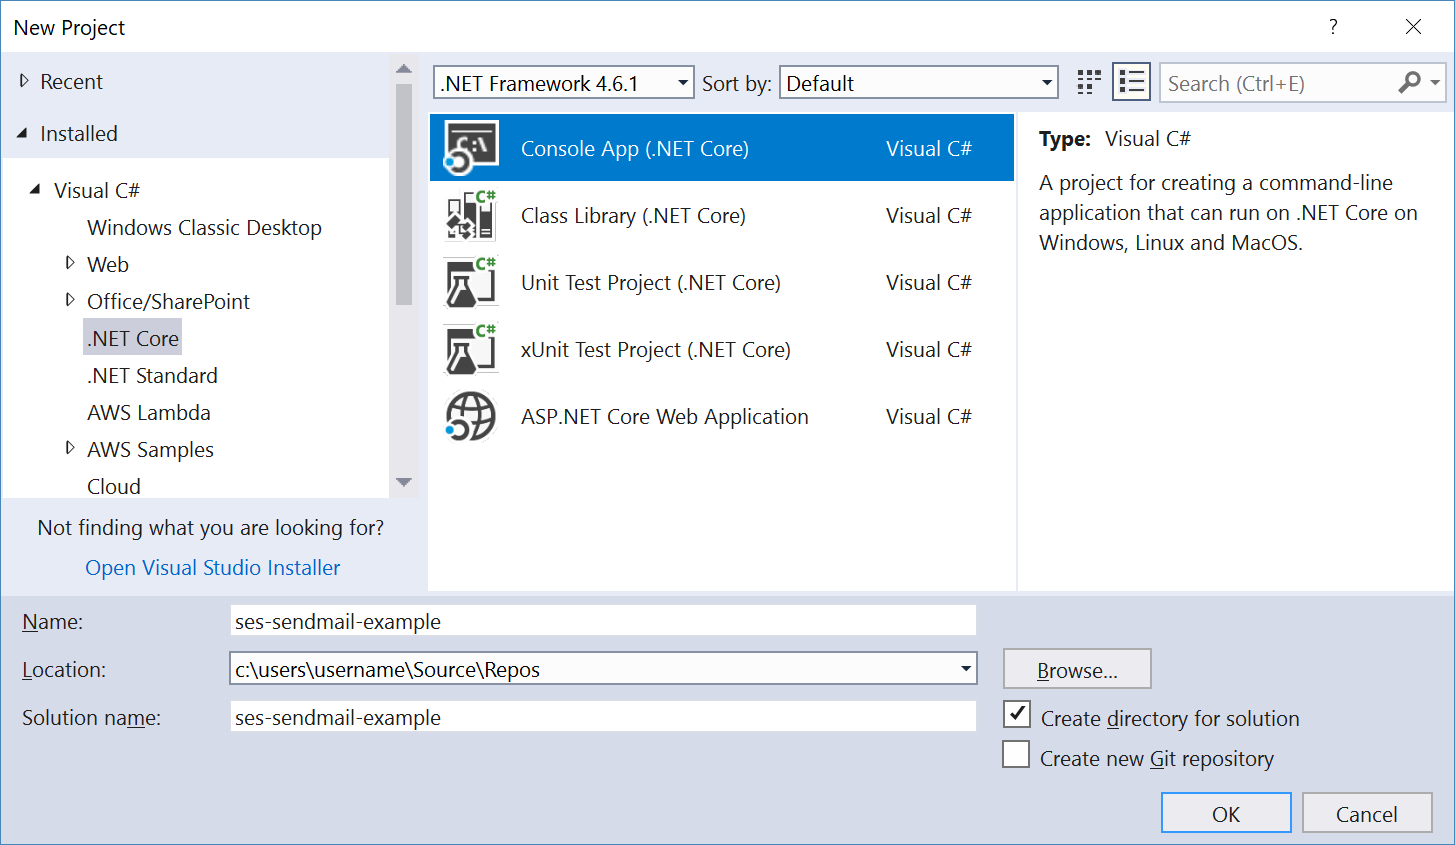
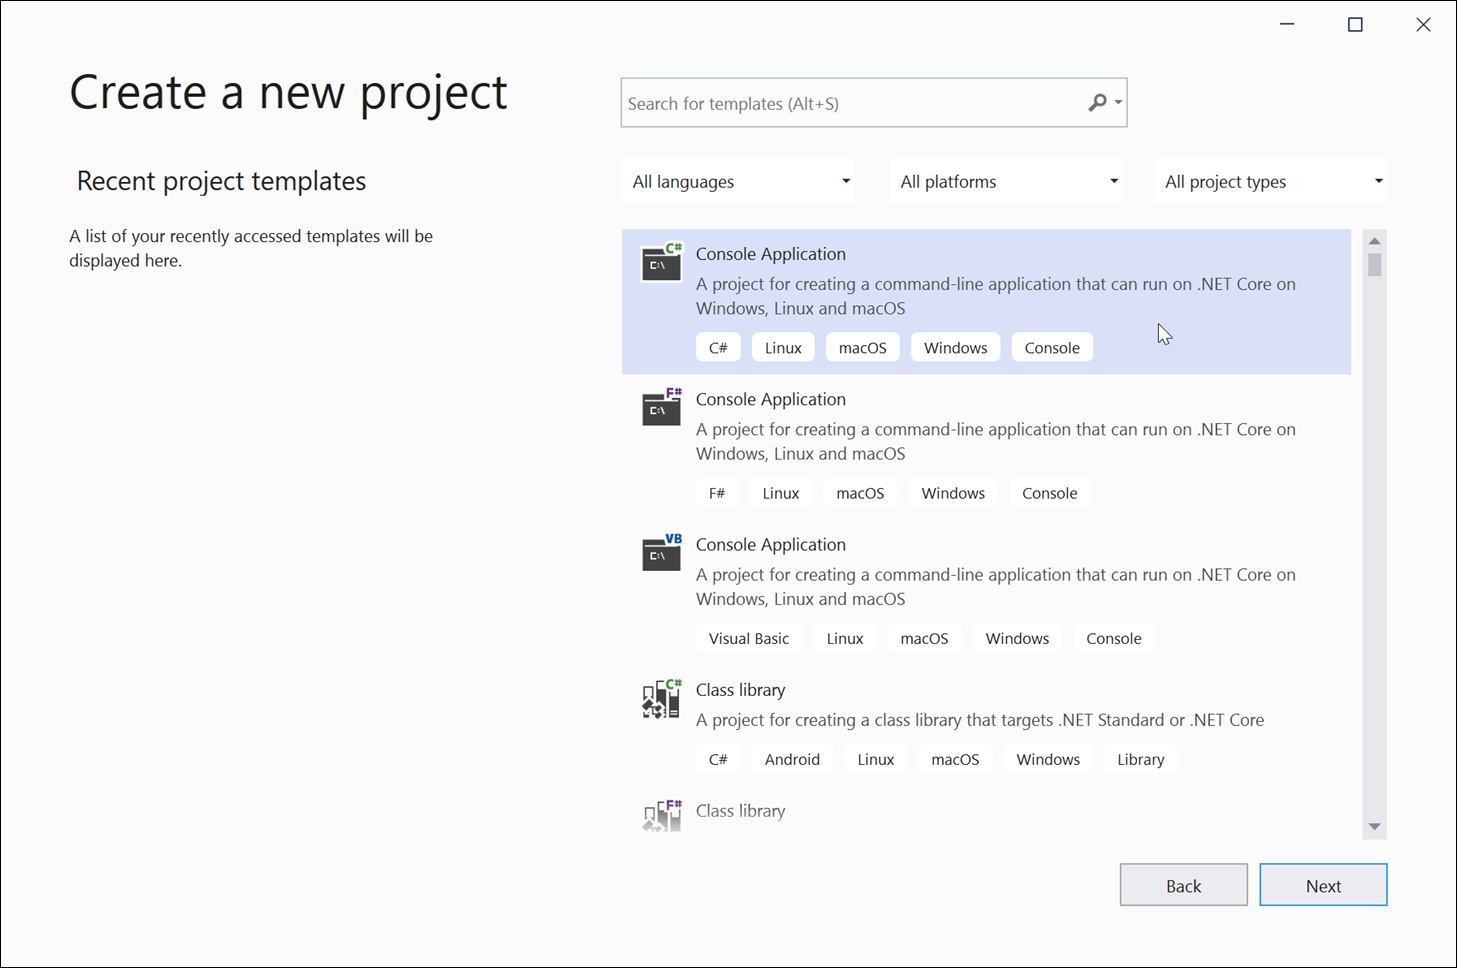
Updated sample

diff --git a/Communications/SES-SendMail-Example/SampleApplication/Program.cs b/Communications/SES-SendMail-Example/SampleApplication/Program.cs
@@ -9,6 +9,22 @@ namespace ses_sendmail_example
         static void Main(string[] args)
         {
             Console.WriteLine("Sending Email...");
+
+            /* The code in this sample assumes you have a credential profile names 'default',
+             * which the SDK will use unless overridden.
+             * To use credentials from a different profile, uncomment the code below
+             * and change the instantiation of the AmazonSimpleEmailService client as shown.
+            */
+
+            // code to use a specific credential profile
+            // var chain = new Amazon.Runtime.CredentialManagement.CredentialProfileStoreChain();
+            // Amazon.Runtime.AWSCredentials awsCredentials;
+            // if (!chain.TryGetAWSCredentials("steve-demo", out awsCredentials))
+            // {
+            //     throw new Exception("Unable to load credentials from the specified profile");
+            // }
+            // using (var client = new AmazonSimpleEmailServiceClient(awsCredentials, Amazon.RegionEndpoint.USEast1))
+
             using (var client = new AmazonSimpleEmailServiceClient(Amazon.RegionEndpoint.USEast1))
             {
                 var sendRequest = new SendEmailRequest

diff --git a/Communications/SES-SendMail-Example/Readme.md b/Communications/SES-SendMail-Example/Readme.md
@@ -1,84 +1,86 @@
-# Sending Emails with Amazon Simple Email Service (SES) and .NET
+# Sending Emails with Amazon Simple Email Service (Amazon SES) and .NET
 
 ## Overview
 
-This guide walks through how to send email from an application using Amazon Simple Email Service (SES). The walk-through includes verifying the sender email address in the AWS console, creating and configuring a simple .NET Core console application in either Visual Studio or via the command line, and then running the app to actually send the email. The code could easily be run in a Lambda function or anywhere else .NET code (Framework or Core) can run.
+This guide walks through how to send email from an application using Amazon Simple Email Service (Amazon SES). The walk-through includes verifying the sender email address in the AWS console, creating and configuring a simple .NET console application using either Visual Studio or 'dotnet' command line tool, and then running the app to actually send the email. The code could easily be run in an AWS Lambda function (.NET Core 3.1/.NET 5+), or anywhere else .NET code (.NET Framework/.NET Core/.NET 5+) can run.
 
 * Links to documentation
-  * [SES Service Page](https://aws.amazon.com/ses/)
-  * [SES Documentation](https://docs.aws.amazon.com/ses/latest/DeveloperGuide/)
+  * [Amazon SES Service Page](https://aws.amazon.com/ses/)
+  * [Amazon SES Developer Guide](https://docs.aws.amazon.com/ses/latest/DeveloperGuide/)
 
 ## Introduction
 
-The Amazon Simple Email Service (SES) is an email platform that provides an easy and cost-effective way to send and receive email without managing mail servers or other infrastructure. It's integrated with the AWS SDKs, so programmatically sending emails from your .NET applications is fast and easy. You can send email with SES using either the APIs, or SMTP.
+Amazon SES is an email platform that provides an easy and cost-effective way to send and receive email without managing mail servers or other infrastructure. A [NuGet package](https://www.nuget.org/packages/AWSSDK.SimpleEmail/) for the AWS SDK for .NET enables you to to programmatically send emails from your .NET application code.
 
-For this walk-through, we'll use the AWS Management Console to do the one-time verification of the email address we'll use to send mail from. Next, we'll create a new .NET console application (you can use either the .NET Framework or .NET Core) and add the AWS SDK for SES to it. Finally, we'll send some email using our app!
+In this walk-through, you will use the AWS Management Console to do the one-time verification of the email address you'll use to send mail from. Next, you'll create a new .NET console application. You may use any .NET version that supports [.NET Standard 2.0 or higher](https://docs.microsoft.com/en-us/dotnet/standard/net-standard). This includes.NET Framework 4.6 and higher, .NET Core 2 and higher, or .NET 5 and higher. The sample code provided with this guide uses .NET 5. Then you'll add the AWS SDK for .NET [NuGet package for SES](https://www.nuget.org/packages/AWSSDK.SimpleEmail/) to the project, update the application code to call Amazon SES, and run the application to send an email.
 
 ### Prerequisites
 
-* .NET Framework 3.5 or higher, **or** .NET Core 1.0 or higher installed
+* A version of .NET supporting .NET Standard 2.0 or higher
 
 * AWS Account with credentials configured locally in Visual Studio, or using the AWS Tools for PowerShell or the AWS CLI
 
-* Optional: Visual Studio 2017 or Visual Studio Code, or your preferred editor. You can also use the command line for .NET Core.
+* Optional: Visual Studio 2017 or higher, or Visual Studio Code, JetBrains Rider, or your preferred editor. You can also use the dotnet command line tool for .NET Core/.NET 5+.
 
-## Verify an Email Address in SES
+## Verifying Email Addresses in Amazon SES
 
-Amazon SES requires you to verify either the email addresses or the entire domain that you use to send email from, or that you use in the return address. For this walk-through, we'll just confirm a single email address.
+Amazon SES requires you to verify either the email addresses or the entire domain that you use to send email from, or that you use in the return address. For this walk-through, you'll just confirm a single email address.
 
-> *Note: Email addresses are case-sensitive. If you verify
-> <sender@EXAMPLE.com>, you can't send from <sender@example.com> without
-> also verifying that address.*
+> *Note:* Email addresses are case-sensitive. If you verify <sender@EXAMPLE.com>, you can't send from <sender@example.com> without also verifying that address.
 
-**Step 1: Select a Region**
+Also, if your account is still in the Amazon SES sandbox, you will need to verify any email addresses that you send emails to, except for email addresses provided by the [Amazon SES mailbox simulator](https://docs.aws.amazon.com/ses/latest/DeveloperGuide/send-email-simulator.html).
 
-Amazon SES is a regional service. Log into the AWS Management Console, and using the region-selector at the top-right, select the region you want to verify your email address in.
+## Step 1: Log in, and Select an AWS Region in the AWS Management Console
 
-**Step 2: Verify an Email Address**
+Amazon SES is a regional service. Log into the AWS Management Console, and using the region-selector at the top-right, select the region you want to verify your email address in. This guide, and the provided sample code, assumes you are using the US East (N. Virginia) region.
 
-1. Go to SES dashboard. In the navigation pane, under **Identity
-    Management**, select **Email Addresses**.
+## Step 2: Verify an Email Address
 
-1. Choose **Verify a New Email Address**.
+1. Navigate to the Amazon SES dashboard in the management console.
 
-1. In the **Verify a New Email Address** dialog box, type your email address in the **Email Address** field, and then choose **Verify This Email Address**.
+1. In the navigation pane, under **Identity Management**, select **Email Addresses**.
 
-    a.  Note: If your SES service has only "sandbox" access, you have to verify both sending and receiving email addresses for the email delivery to be successful.
+1. Click **Verify a New Email Address**.
+
+1. In the **Verify a New Email Address** dialog box, type your email address in the **Email Address** field, and then click **Verify This Email Address**.
+
+    > **Note:** If your SES service has only "sandbox" access, you have to verify both sending and receiving email addresses for the email delivery to be successful, or run the application code using an address from the SES simulator.
 
 1. You should receive an email with the subject line, "Amazon Web Services -- Email Address Verification Request in region *\<RegionName\>*." Click the link in the body of the message.
 
-1. Back in the AWS SES console, verify that your email status is "verified". Click the refresh icon at the top-right of the email list if necessary. See Figure 1 below.
+1. Back in the Amazon SES console, verify that your email status is "verified". Click the refresh icon at the top-right of the email list if necessary. See Figure 1 below.
 
-![SES Console](media/image1.png)
+    ![SES Console](media/image1.png)
 
-Figure 1 -- Verified Email Address in SES Console
+    Figure 1. Verified Email Address
 
-> *Note: If you don't see the email verification email in your inbox,
-> follow the [troubleshooting steps in the SES Developer
-> Guide](https://docs.aws.amazon.com/ses/latest/DeveloperGuide/verify-email-addresses-procedure.html#verify-email-addresses-troubleshooting).*
+> **Note:**: If you do not see the email verification email in your inbox, follow the [troubleshooting steps in the Amazon SES Developer Guide](https://docs.aws.amazon.com/ses/latest/DeveloperGuide/verify-email-addresses-procedure.html#verify-email-addresses-troubleshooting).
 
-## Create and Configure a Console Application
+## Step 3: Create a New Console Application Project
 
-**Step 1: Create an empty console application project**
+You can create, build, and run the application using either Visual Studio or from the command line. Instructions for the command line assume you are using .NET Core or .NET 5+. Follow the steps under the relevant heading below. Alternatively you can use the prewritten code contained in the SampleApplication folder of this guide. Note that the provided code assumes use of .NET 5 and the US East (N. Virginia) region.
 
-You can create, build and run the application using either Visual Studio (.NET Framework or .NET Core), or from the command line (.NET Core only). Follow the steps under the relevant heading below. Alternatively you can use the provided sample in the SampleApplication folder of this guide. Note that the provided sample assumes use of the US East (N. Virginia) region.
+The complete application can be found in the SampleApplication folder for this guide, and you can use this if you wish (skip to step 5 to make changes to the provided code and then run it). Alternately, follow the steps below to create and update a new application project. Follow the steps appropriate to your chosen environment below.
 
-**Visual Studio:**
+### Create Project Using Visual Studio
 
-1. Select File New Project from the main menu.
+1. Select **New Project** from the **File** menu.
 
-1. In the New Project dialog, select Console App (.NET Framework) **or** Console App (.NET Core).\
-    *Note that in Figure 2 below, we have chosen .NET Core.*
+1. In the _New Project_ dialog, select the **Console App** project template and fill out the project settings appropriately (name, location, and .NET version).\
+    \
+    **Note:** The screenshots below show the process for selecting a .NET 5.0 console application project in Visual Studio 2019. Your version may differ.
 
-1. Select a name for your project, and then click the "Ok" button.
+    ![New Project dialog](media/image2.png)
 
-![New Project dialog](media/image2.png)
+    ![Configure project settings 1](media/image3.png)
 
-Figure 2 -- New Console App in Visual Studio New Project Dialog
+    ![Choose .NET version](media/image4.png)
 
-**Command Line:**
+1. You can now skip to Step 4 below, _Add the Simlple Email Service_ NuGet Package.
 
-We'll create a new directory, and then create the console app project in it using the following commands in either a Windows command prompt or Mac OS X or Linux bash shell:
+### Create Project Using the 'dotnet' Command Line Tool
+
+Run the commands below in a command prompt on Windows, macOS, or Linux to create a new directory, and then create the console application project.
 
 ```bash
 mkdir ses-sample
@@ -88,33 +90,43 @@ dotnet new console
 
 The *dotnet new* command will create the project files, and restore packages referenced by the template.
 
-**Step 2: Add the SES NuGet Package**
+## Step 4: Add the Amazon SES NuGet Package**
 
-**Visual Studio:**
+Next you'll add the NuGet package from the AWS SDK for .NET that your application code can use to call Amazon SES APIs.
 
-1. Right-click the project node for your project in the Solution Explorer, and select, "Manage NuGet Packages..." from the context menu.
+You have a choice of using the NuGet Package Manager console in Visual Studio, or adding the package at the command line. Follow the steps appropriate to your chosen environment below.
 
-1. In the NuGet tab that appears, click "Browse" from the horizontal menu, and in the search box type "AWSSDK.SimpleEmail".
+### Add NuGet Package Using Visual Studio
 
-1. When the package appears in the list area, select it, and then click the "Install" button in the details pane (see Figure 3 below).
+1. Right-click the project node for your project in the Solution Explorer, and select **Manage NuGet Packages...** from the context menu.
 
-1. If prompted to accept the license agreement, click the "I Accept" button in the dialog.
+1. In the NuGet window that appears, click the **Browse** link  and in the search box enter **AWSSDK.SimpleEmail**.
 
-> ![NuGet Package](media/image3.png)
+    > **Tip:** There are two packages on NuGet for Amazon SES. For this walk-through, select the _AWSSDK.SimpleEmail_ package to match the provided example code.
 
-Figure 3 -- Adding the AWS SES NuGet Package in Visual Studio
+1. When the package appears in the list area, select it, and then click the **Install** button in the details pane, shown in Figure 3 below.
 
-**Command Line:**
+    > **Note:** If prompted to accept the license agreement, click the "I Accept" button in the dialog.
 
-Add the NuGet package *AWSSDK.SimpleEmail* to the project with the following command in either a Windows command prompt or Mac OS X or Linux bash shell:
+    ![NuGet Package](media/image5.png)
 
-```bash
-dotnet add package AWSSDK.SimpleEmail
-```
+    Figure 2. Adding the NuGet Package for Amazon SES in Visual Studio 2019
 
-**Step 3: Edit the C\# Code**
+1. You can now skip to Step 5 below, _Edit the C\# Code_.
 
-You can use the complete project contained in the SampleApplication folder for this guide and edit the *Program.cs* file, or copy and paste the code in Figure 4 below into the *Program.cs* file of your own project using either Visual Studio or a code editor of your choice.
+### Add NuGet Package Using the Command Line
+
+1. In your command line shell ensure you are located in the same folder as the project you just created.
+
+2. Run the command below to add the NuGet package *AWSSDK.SimpleEmail* to the project.
+
+    ```bash
+    dotnet add package AWSSDK.SimpleEmail
+    ```
+
+## Step 5: Edit the C\# Code
+
+If you are following the steps in this guide with a new project, copy and paste the code below to replace the contents of *Program.cs* in your new project using either Visual Studio or a code editor of your choice. If you are instead using the provided code in the SampleApplication folder, skip to _Ensure you make the following changes in the code_ below.
 
 ```csharp
 using System;
@@ -162,31 +174,31 @@ namespace ses_sendmail_example
 }
 ```
 
-Figure 4 -- Program.cs file
-
-This sample code demonstrates a common pattern when developing with the AWS SDK for .NET, which is the use of a client object to represent an AWS service. That client object then exposes functionality via methods, such as the `SendEmailAsync` method in this example.
+This sample code demonstrates a common pattern when developing with the AWS SDK for .NET, which is the use of a client object to represent an AWS service. That client object then exposes the service's APIs via methods on the client object, such as the `SendEmailAsync` method in this example.
 
 Ensure you make the following changes in the code:
 
-- Replace "*verified-email-address@example.com*" with the email address you verified earlier
+* Replace _verified-email-address@example.com_ with the email address you verified earlier
 
-- Replace "*dest@example.com*" with your email address (where emails will be sent)
+* Replace _dest@example.com_ with your email address (where emails will be sent).
 
-- Replace the region parameter in the `AmazonSimpleEmailServiceClient` instantiation with the region you would like to send from. In our example, we have it set to us-east-1.
+    > **Note:** If your account is in the SES sandbox, the destination address you provide must have been verified, or you can use test email addresses and the SES simulator. see [Testing email sending in Amazon SES](https://docs.aws.amazon.com/ses/latest/DeveloperGuide/send-email-simulator.html) for more details.
 
-> *Note: For our sample app, we're sending an HTML-formatted email. If
-> you wish to send a plain text email, just change the email body
-> property to be* new Content("your text here")
+* Replace the region parameter in the `AmazonSimpleEmailServiceClient` instantiation with the region you would like to send from. In our example, we have it set to us-east-1 corresponding to the US East (N. Virginia) region.
 
-## Send Emails!
+For our sample app, we're sending an HTML-formatted email. If you wish to send a plain text email, change the email body property in the code to read `Content("your text here")`
+
+> *Note:* The code shown above, and in the provided sample application, assumes you have a credential profile named _default_ set up on your local machine. The SDK automatically looks for and loads credentials from this profile when no other credentials are specified. See the sample application provided with this guide for an example of how to use an alternate credential profile, with a different name.
+
+## Step 6: Run the Application and Send an Email
 
 To send email using the console app, just run it using either Visual Studio or the command line.
 
-**Visual Studio:**
+### In Visual Studio
 
-Just press F5 to build and run the app.
+Just press **F5** to build and run the app.
 
-**Command Line:**
+### Command Line
 
 Use the following command to build (compile) and run the app:
 
